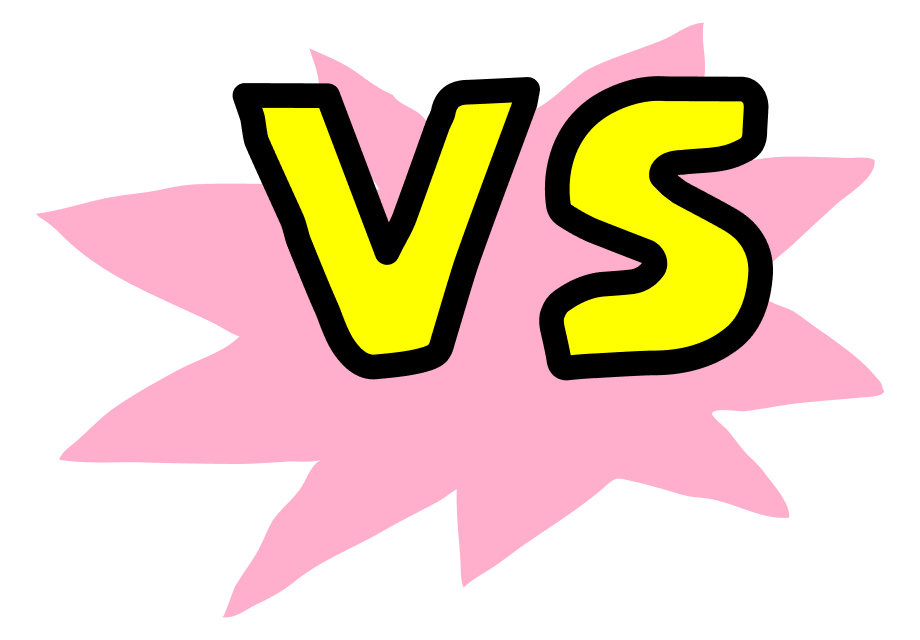
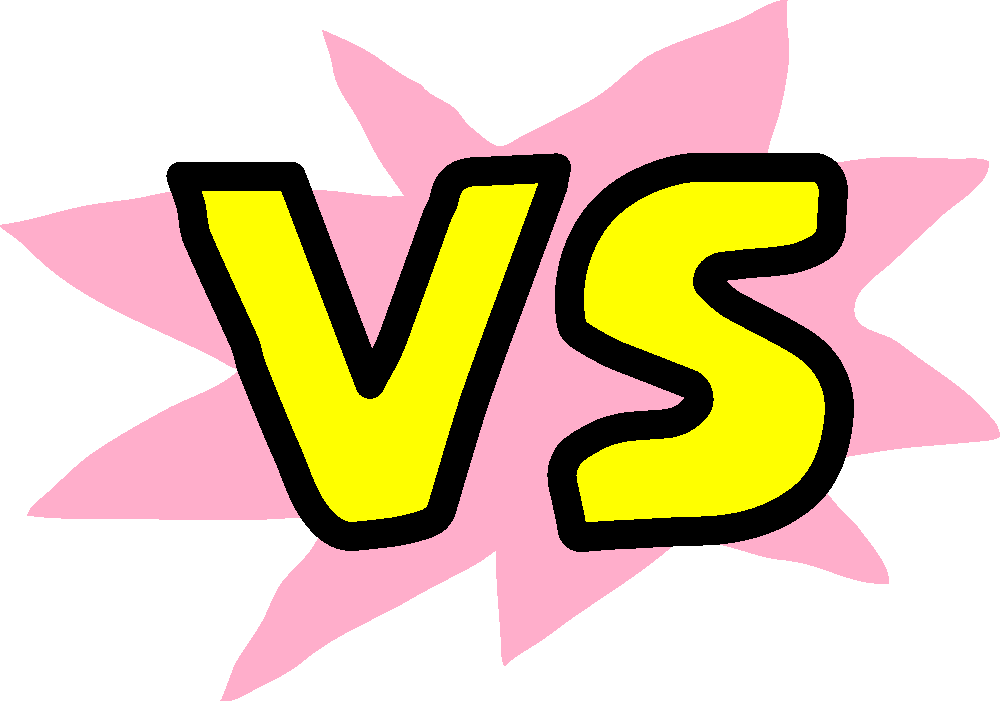
이미지 교체

diff --git a/css/index.css b/css/index.css
@@ -8,12 +8,12 @@
   width: 100%;
   height: 100%;
   z-index: -30;
-  background: url("../images/home/bg.svg") no-repeat center center / cover;
+  background: url("../images/home/bg.jpeg") no-repeat center center / cover;
   content: "";
 }
 .sakura-container {
   position: fixed;
-  top: 0;
+  top: -10%;
   left: 0;
   width: 100%;
   height: 100%;

diff --git a/complete.html b/complete.html
@@ -37,8 +37,8 @@
       document.body.classList.add('show');
     });
     setTimeout(() => {
-      window.location.href = 'end.html';
-    }, 3000);
+      window.location.href = 'index.html';
+    }, 5000);
   </script>
 </body>
 </html>

diff --git a/index.html b/index.html
@@ -18,7 +18,7 @@
   </div>
   <!-- 상단 -->
   <header class="home-header">
-    <img src="images/home/header.svg" alt="타이틀">
+    <!-- <img src="images/home/header.svg" alt="타이틀"> -->
   </header>
 
   <!-- 중앙 -->

diff --git a/css/character.css b/css/character.css
@@ -1,5 +1,5 @@
 .character-body {
-  background: url('../images/character/bg.jpg') no-repeat center/ cover;
+  background: url('../images/character/bg.jpeg') no-repeat center/ cover;
 }
 
 .character-wrap {

diff --git a/css/complete.css b/css/complete.css
@@ -1,5 +1,5 @@
 .complete-body {
-  background: url('../images/bg.jpg') no-repeat center/ cover;
+  background: url('../images/bg.jpeg') no-repeat center/ cover;
 }
 .complete-wrap {
   display: flex;

diff --git a/css/question.css b/css/question.css
@@ -1,5 +1,5 @@
 .question-body {
-  background: url('../images/bg.jpg') no-repeat center/ cover;
+  background: url('../images/bg.jpeg') no-repeat center/ cover;
 }
 
 .question-wrap {

diff --git a/css/result.css b/css/result.css
@@ -1,5 +1,5 @@
 .result-body {
-  background: url('../images/bg.jpg') no-repeat center/ cover;
+  background: url('../images/bg.jpeg') no-repeat center/ cover;
 }
 
 .result-wrap {
